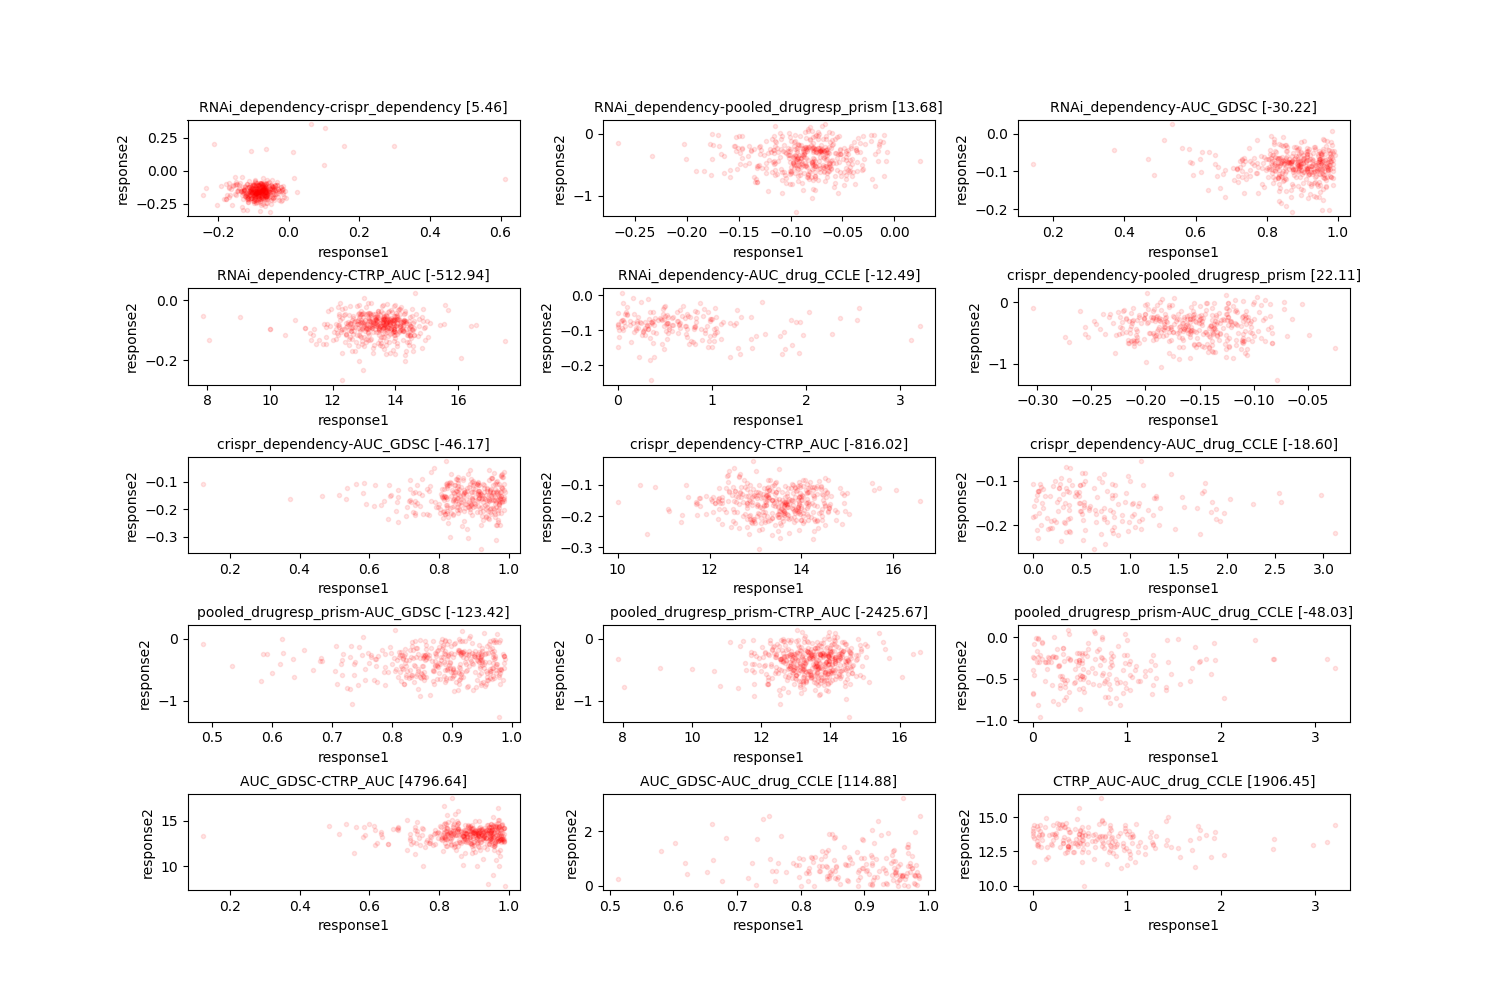
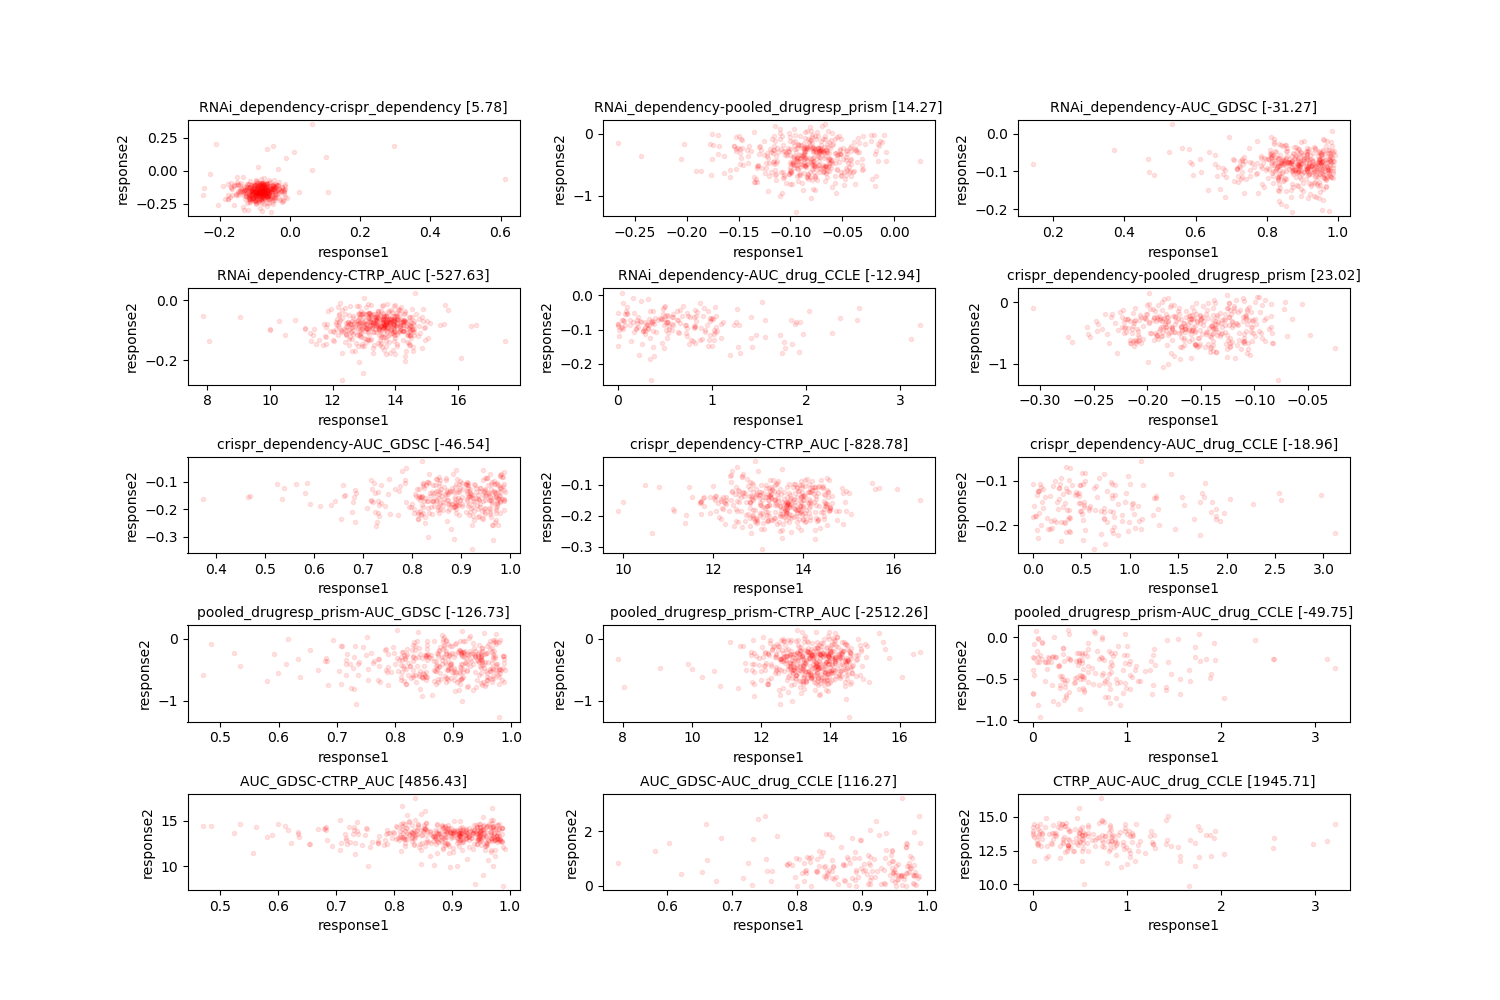
added simple autoencoder for pretraining weights

diff --git a/python/dataset_response_comparison.py b/python/dataset_response_comparison.py
@@ -14,6 +14,28 @@ from config import *    # params stored here
 import utils
 import pandas as pd
 from torch.utils import  data
+import statsmodels.api as sm
+from scipy.stats import zscore
+
+def mean_na_remove(x):
+    x = x[~np.isnan(x)]
+    return np.mean(x)
+
+def lm(x1, x2):
+    try:
+        x = np.linspace(min(x1),max(x1),10)
+        x1 = sm.add_constant(x1)
+        model = sm.OLS(x2, x1)
+        results = model.fit()
+
+        y = results.predict(sm.add_constant(x))
+
+        p = results.f_test(np.identity(2)).pvalue
+
+        return p, x, y, results.params[1]
+    except:
+        raise
+        return -1, [0], [0]
 
 if __name__ == '__main__':
 
@@ -27,55 +49,59 @@ if __name__ == '__main__':
         ii = 0
         for X,y,resp_type,resp_selector in gen:
             ii+=X.size(0)
-            if ii > 1000:
-                break
+            #if ii > 1000:
+            #    break
             if ii/X.size(0) % 1000 == 0:
                 print(f'predicting {dataset} ...[{ii}/{len(gen.dataset)}]', end='\r')
             targets['dataset'].append(dataset)
             targets['target'].append(hash(str(X.numpy()[:,1])))
             targets['response'].append(y.numpy()[0])
-            targets['expr'].append(hash(str(np.round(X.numpy()[:,0]))))
-
+            targets['expr'].append(hash(str(np.round(X.numpy()[:,0], decimals=0))))
         print()
 
     df = pd.DataFrame(targets)
-    df = df.groupby(['dataset', 'target', 'expr']).agg({'response':'mean'})
+    df = df.groupby(['dataset', 'target', 'expr']).agg({'response':mean_na_remove})
     df = df.reset_index()
 
     print(df.head())
 
-    f, axes = plt.subplots(5,3,figsize=(15,10))
+    f, axes = plt.subplots(5,3,figsize=(15,12))
     corr = {'dataset1':[],'dataset2':[],'corr':[]}
     ii = 0
     for i, dataset1 in enumerate([dataset for dataset in params['RESP_TYPES']]):
         for j,dataset2 in enumerate([dataset for dataset in params['RESP_TYPES']][(i+1):]):
-            print(f'{dataset1} | {dataset2}')
-            tmp = df[df['dataset'].isin([dataset1, dataset2])]
-            intersection_targets = np.intersect1d(tmp[tmp['dataset'] == dataset1].target.values, tmp[tmp['dataset'] == dataset2].target.values)
-            intersection_expr = np.intersect1d(tmp[tmp['dataset'] == dataset1].expr.values, tmp[tmp['dataset'] == dataset2].expr.values)
-            print(intersection_expr)
-            tmp = tmp[tmp['target'].isin(intersection_targets)]
-            print(tmp.head())
-            tmp = tmp[tmp['expr'].isin(intersection_expr)]
-            print(tmp.head())
-            tmp = tmp.pivot(index=['target','expr'], columns='dataset', values='response')
-            print(f'[{dataset1}, {dataset2}] intersecting targets: {tmp.values.shape[0]}')
-            if tmp.values.shape[0] > 10:
-                corr['dataset1'].append(dataset1)
-                corr['dataset2'].append(dataset2)
-                cor = np.correlate(tmp.values[:,0], tmp.values[:,1])
-                corr['corr'].append(cor)
+            try:
+                tmp = df[df['dataset'].isin([dataset1, dataset2])]
+                intersection_targets = np.intersect1d(tmp[tmp['dataset'] == dataset1].target.values, tmp[tmp['dataset'] == dataset2].target.values)
+                intersection_expr = np.intersect1d(tmp[tmp['dataset'] == dataset1].expr.values, tmp[tmp['dataset'] == dataset2].expr.values)
+                tmp = tmp[tmp['target'].isin(intersection_targets)]
+                tmp = tmp[tmp['expr'].isin(intersection_expr)]
+                tmp = tmp.pivot_table(index=['target','expr'], columns='dataset', values='response', aggfunc=mean_na_remove)
+                tmp = tmp.dropna()
+                print(f'[{dataset1}, {dataset2}] intersecting targets: {tmp.values.shape[0]}')
+                if tmp.values.shape[0] > 10:
+                    X1 = zscore(tmp.values[:,0])
+                    X2 = zscore(tmp.values[:,1])
+                    p, xx, yy, B = lm(X1, X2)
+                    corr['dataset1'].append(dataset1)
+                    corr['dataset2'].append(dataset2)
+                    cor = np.correlate(X1, X2)
+                    corr['corr'].append(cor)
 
-                axes.flat[ii].plot(tmp.values[:,0], tmp.values[:,1], 'r.', alpha=0.1)
+                    axes.flat[ii].plot(X1, X2, 'r.', alpha=0.2)
+                    axes.flat[ii].plot(xx, yy, 'b--', label=f'pval: {p:.2g} \nslope: {B:.2f}')
+                    axes.flat[ii].legend()
+                    axes.flat[ii].set_title(f'{dataset1}-{dataset2} [cor: {cor[0]:.2f}]', fontsize=10)
+                    axes.flat[ii].set_xlabel('response1', fontsize=10)
+                    axes.flat[ii].set_ylabel(f'response2', fontsize=10)
 
-                axes.flat[ii].set_title(f'{dataset1}-{dataset2} [{cor[0]:.2f}]', fontsize=10)
-                axes.flat[ii].set_xlabel('response1', fontsize=10)
-                axes.flat[ii].set_ylabel(f'response2', fontsize=10)
-
-                ii+=1
+                    ii+=1
+            except:
+                print(f'Failed: {dataset1} - {dataset2}')
+                raise
 
     plt.subplots_adjust(left=None, bottom=None, right=None, top=None, wspace=0.25, hspace=0.75)
-    plt.savefig('./dataset_response_comparison_plot.png')
+    plt.savefig('../Dataset_Comparison/dataset_response_comparison_plot.png')
     print(corr)
 
 

diff --git a/python/FULL_MODEL_001/Net.py b/python/FULL_MODEL_001/Net.py
@@ -35,6 +35,11 @@ class Net(torch.nn.Module):
         self.DSP = [torch.nn.Linear(self.params['H3'], self.params['DH']) for _ in range(self.params['N_DATATYPES'])]
         self.out = [torch.nn.Linear(self.params['DH'], 1) for _ in range(self.params['N_DATATYPES'])]
 
+        self.AE_do = torch.nn.Dropout(self.params['PRETRAIN_DO'])
+        self.AE_fc4 = torch.nn.Linear(self.params['H3'], self.params['H2'])
+        self.AE_fc5 = torch.nn.Linear(self.params['H2'], self.params['H1'])
+        self.AE_fc6 = torch.nn.Linear(self.params['H1'], 2*self.params['NGENES'])
+
         if not os.path.exists(f"{self.params['MODEL_OUT_DIR']}/{self.params['NAME']}"):
             os.mkdir(f"{self.params['MODEL_OUT_DIR']}/{self.params['NAME']}")
 
@@ -58,6 +63,58 @@ class Net(torch.nn.Module):
 
         return endout
 
+    def pretrain_forward(self, x):
+        x = x.unsqueeze(1)
+        #x = self.do(x)
+        ################################ ENCODE ################################
+        a0 = F.relu(self.layer1(x))
+        a0 = a0.reshape(a0.size(0), -1)                         # Conv2D
+        a1 = self.AE_do(self.bn1(F.relu(self.fc1(a0))))                     # FC layer 1
+        a2 = self.AE_do(self.bn2(F.relu(self.fc2(a1))))                     # FC layer 2
+        a3 = self.AE_do(self.bn3(F.relu(self.fc3(a2))))                     # FC layer 3
+        ################################ DECODE ################################
+        a4 = self.AE_do(F.relu(self.AE_fc4(a3)))
+        a5 = self.AE_do(F.relu(self.AE_fc5(a4)))
+        a6 = self.AE_do(F.relu(self.AE_fc6(a5)))
+        a6 = a0.reshape(a6.size(0), self.params['NGENES'], 2)
+        return a6
+
+    def pretrain_model(self):
+        '''
+        '''
+        use_cuda = torch.cuda.is_available()
+        device = torch.device("cuda:0" if use_cuda else "cpu")
+        optim = torch.optim.Adam(self.parameters(recurse=True), lr=self.params['PRETRAIN_LR'], weight_decay=self.params['PRETRAIN_WD'])
+        scheduler = torch.optim.lr_scheduler.ReduceLROnPlateau(optim, mode='min',
+                                                            factor=0.1, patience=25,
+                                                            verbose=True, threshold=10,
+                                                            threshold_mode='rel', cooldown=0,
+                                                            min_lr=1e-5, eps=1e-08)
+        for epoch in range(self.params['PRETRAIN_EPOCHS']):
+            total_loss = 0
+            mse = []
+            self.train()
+            ii = 0
+            for X,y,_,resp_selector in self.train_gen:
+                ii += X.size(0)
+                X = X.to(device, dtype=torch.float)
+                xhat = self.pretrain_forward(X)
+                loss = utils.AE_LOSS(xhat, X, gamma=self.params['PRETRAIN_MSE_WEIGHT'])
+                optim.zero_grad()
+                loss.backward()
+                optim.step()
+                total_loss += loss.detach().numpy()
+                print(f'EPOCH: {epoch} [training set] \t mse: [{(total_loss/ii):.4f}]  \t |  Epoch progress: [{ii}/{len(self.train_gen.dataset)}] {"."*int(ii/(len(self.train_gen.dataset)/10))}', end = '\t\t\t\r')
+                scheduler.step(total_loss)
+                mse.append((total_loss/ii))
+                self.plot_mse(mse, 'pretraining_mse')
+            print()
+
+    def plot_mse(self, mse, name):
+        plt.figure()
+        plt.plot(mse, 'r-')
+        plt.savefig(f"{self.params['MODEL_OUT_DIR']}/{self.params['NAME']}/{name}.png")
+        plt.close('all')
 
     def train_model(self):
 

diff --git a/python/FULL_MODEL_001/config.py b/python/FULL_MODEL_001/config.py
@@ -32,10 +32,10 @@ params = {
                                         'beatAML_AUC'])},
 'N_DATATYPES' : 7,
 
-'H1' : 2000,
-'H2' : 2000,
-'H3' : 500,                # Layer 3 - Dataset Shared
-'DH' : 500,                # Dataset Specific Layer
+'H1' : 1000,
+'H2' : 500,
+'H3' : 100,                # Layer 3 - Dataset Shared
+'DH' : 100,                # Dataset Specific Layer
 
 'DO' : 0.,                # Dropout
 'NCONVS' : 2,
@@ -45,6 +45,11 @@ params = {
 'LEARNING_WEIGHT' : 5e-2,
 'WEIGHT_DECAY' : 0.001,
 'LR_DECAY_PATIENCE' : 3,
+'PRETRAIN_EPOCHS' : 3,
+'PRETRAIN_LR' : 1,
+'PRETRAIN_WD' : 0.01,
+'PRETRAIN_DO' : 0.1,
+'PRETRAIN_MSE_WEIGHT' : 1000,     # Weight applied to target MSE
 # -----------------------------------------------------------------------------
 # -----------------------------------------------------------------------------
 'REPRODUCIBLE' : True,
@@ -52,7 +57,7 @@ params = {
 
 # -----------------------------------------------------------------------------
 # -----------------------------------------------------------------------------
-'train_params' : {'batch_size': 2048,
+'train_params' : {'batch_size': 4*2048,
           'shuffle': True,
           'num_workers': 6},
 

diff --git a/python/FULL_MODEL_001/utils.py b/python/FULL_MODEL_001/utils.py
@@ -8,6 +8,19 @@ import torch
 import pandas as pd
 import imageio
 
+
+def AE_LOSS(output, target, gamma):
+    '''
+    Encoding our targets properly is very important; this custom loss function
+    provides higher penalty to mis-encoding targets than expression data.
+
+    We will use sum of squared errors, this way SSE = 0 is a lossless encoding.
+    '''
+    loss_expr = torch.sum((output[:,:,0] - target[:,:,0])**2)
+    loss_targ = torch.sum((output[:,:,1] - target[:,:,1])**2)
+    return loss_expr + gamma * loss_targ
+
+
 # plot and show learning process
 #from : https://medium.com/@benjamin.phillips22/simple-regression-with-neural-networks-in-pytorch-313f06910379
 class Training_Progress_Plotter:

diff --git a/python/FULL_MODEL_001/train.py b/python/FULL_MODEL_001/train.py
@@ -50,6 +50,9 @@ if __name__ == '__main__':
 
     net = Net.Net(train_gen, test_gen, params, train_y_params)
 
+    print('pretraining model...')
+    net.pretrain_model()
+
     print('training model...')
     net.train_model()
 
